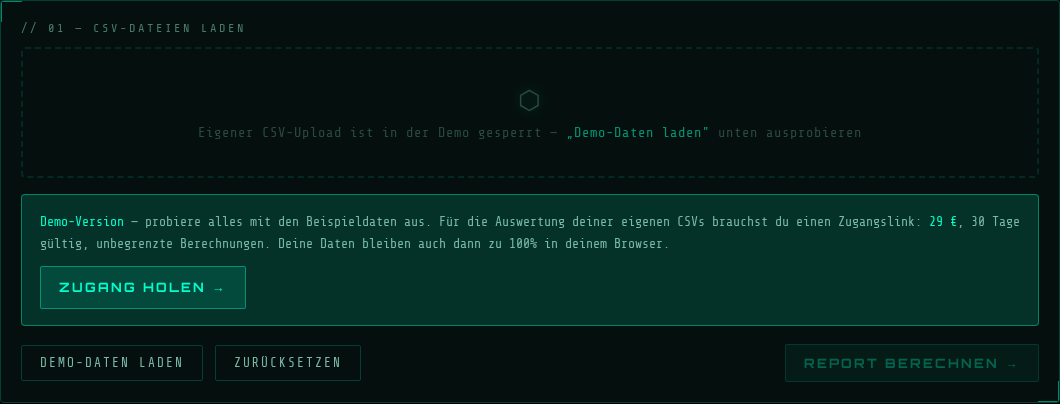
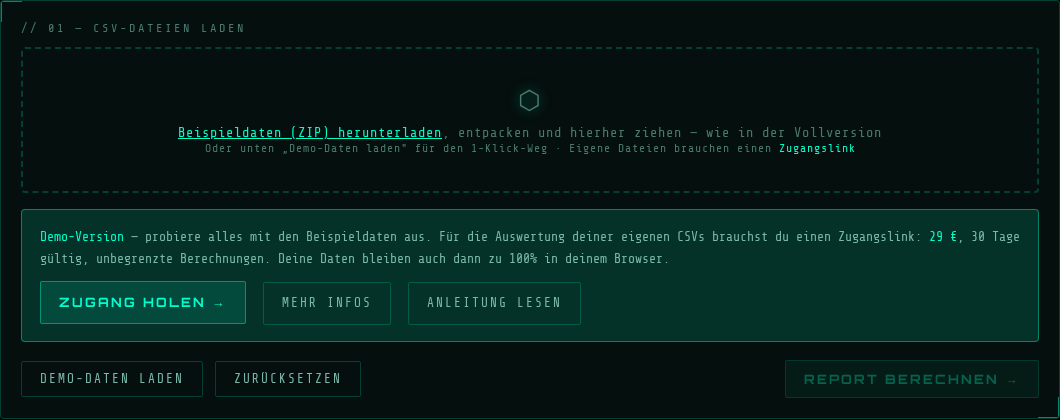
Guide (DE+EN): Demo-FAQ an neue Dropzone angepasst (Beispieldaten-ZIP + Drag&Drop), Screenshot neu

diff --git a/en/steuertool-guide.html b/en/steuertool-guide.html
@@ -194,11 +194,13 @@
   </p>
   <h3>Is the demo the same as the full version?</h3>
   <p>
-    Yes — same calculation engine, same interface. The demo only works with fictional sample data;
-    loading your own files requires the access link:
+    Yes — same calculation engine, same interface. In the demo you can <strong>download the sample
+    data as a ZIP</strong> and drag the files in yourself — exactly like you will later with your
+    real files. Or use the one-click "Demo-Daten laden" button. Your own files are only accepted
+    by the full version with an access link:
   </p>
-  <img src="/steuertool-guide-demo-cta.png" alt="Demo version with locked upload and access hint" class="screenshot">
-  <p class="screenshot-caption">In the demo your own upload is locked — everything else is free to try.</p>
+  <img src="/steuertool-guide-demo-cta.png" alt="Demo version with sample data ZIP and access hint" class="screenshot">
+  <p class="screenshot-caption">The demo: drag the sample data just like in the full version — your own files need the access link.</p>
 
   <div class="cta-box">
     <h3 style="margin-top:0;">Ready?</h3>

diff --git a/steuertool-guide.html b/steuertool-guide.html
@@ -185,11 +185,13 @@
   </p>
   <h3>Ist die Demo dasselbe wie die Vollversion?</h3>
   <p>
-    Ja — gleicher Rechenkern, gleiche Oberfläche. Die Demo arbeitet nur mit fiktiven Beispieldaten;
-    eigene Dateien laden geht erst mit dem Zugangslink:
+    Ja — gleicher Rechenkern, gleiche Oberfläche. In der Demo kannst du die <strong>Beispieldaten
+    als ZIP herunterladen</strong> und selbst per Drag &amp; Drop reinziehen — genau wie später mit
+    deinen echten Dateien. Oder du nimmst den 1-Klick-Button „Demo-Daten laden". Eigene Dateien
+    nimmt erst die Vollversion mit Zugangslink an:
   </p>
-  <img src="steuertool-guide-demo-cta.png" alt="Demo-Version mit gesperrtem Upload und Zugangshinweis" class="screenshot">
-  <p class="screenshot-caption">In der Demo ist der eigene Upload gesperrt — alles andere kannst du frei ausprobieren.</p>
+  <img src="steuertool-guide-demo-cta.png" alt="Demo-Version mit Beispieldaten-ZIP und Zugangshinweis" class="screenshot">
+  <p class="screenshot-caption">Die Demo: Beispieldaten ziehen wie in der Vollversion — eigene Dateien brauchen den Zugangslink.</p>
 
   <div class="cta-box">
     <h3 style="margin-top:0;">Bereit?</h3>